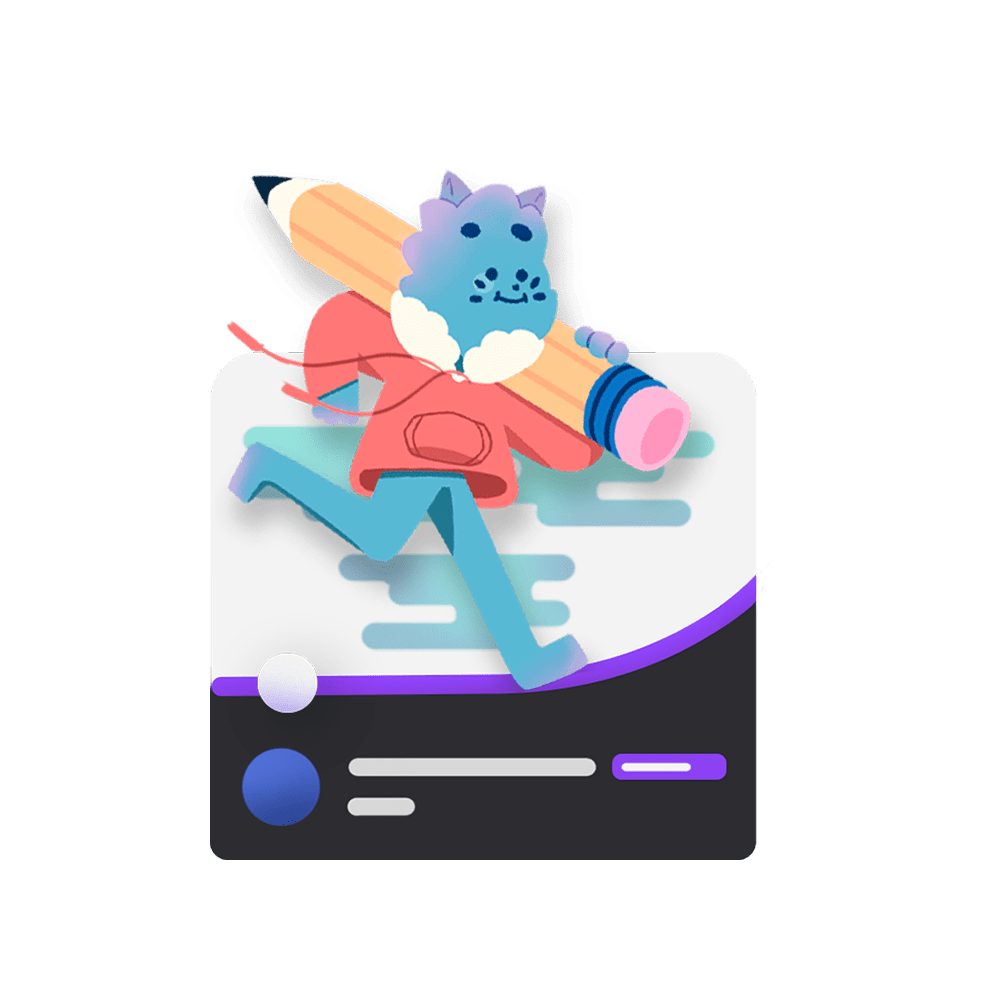
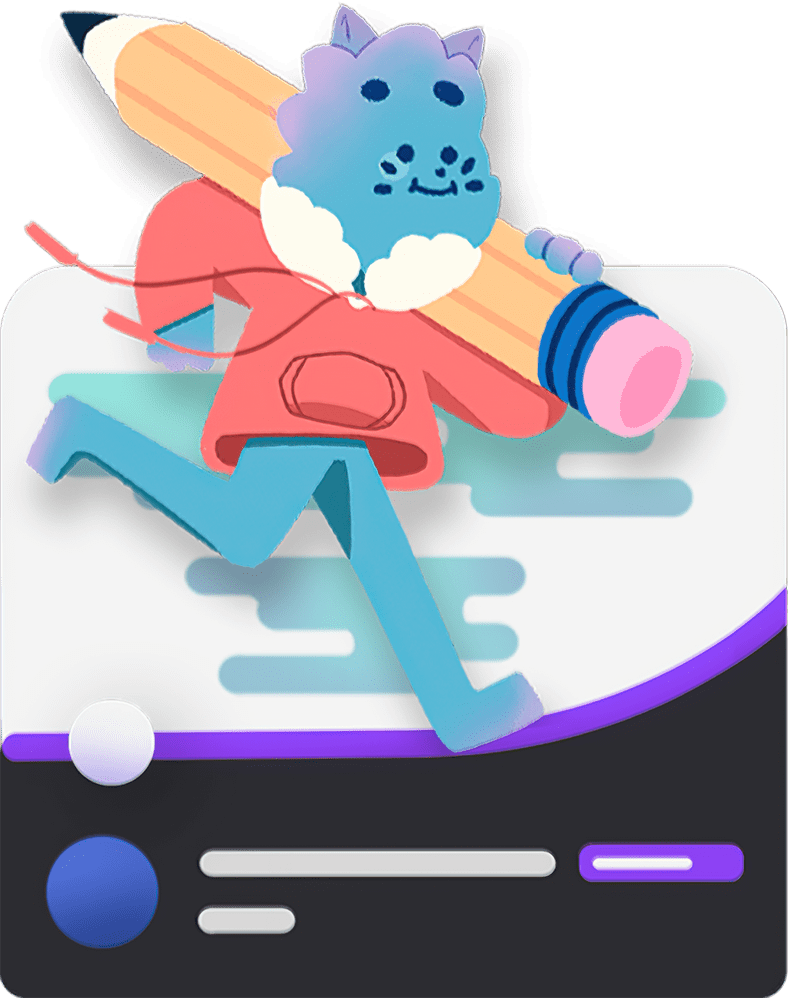
Pequeños cambios index version movil

diff --git a/assets/cssbk/app.css b/assets/cssbk/app.css
@@ -476,18 +476,18 @@ section {
 	position: absolute;
 }
 .animation-videoM {
-  max-width: 90%;
-  left: -10%;
-  bottom: 165px;
-  list-style-type: none;
-  position: relative;
-  z-index: 3;
+	max-width: 50%;
+    left: 11%;
+    bottom: 55px;
+    list-style-type: none;
+    position: relative;
+    z-index: 3;
 }
 @media (max-width: 767px) {
   .animation-videoM {
-    max-width: 100%;
-    left: 0%;
-    bottom: 125px;
+    max-width: 58%;
+    left: 23%;
+    bottom: 60px;
     list-style-type: none;
     position: relative;
     z-index: 3;
@@ -500,15 +500,15 @@ section {
 @media (max-width: 400px) {
   .animation-videoM {
     max-width: 100%;
-    left: -7%;
-    bottom: 135px;
+    left: 19%;
+    bottom: 60px;
     list-style-type: none;
     position: relative;
     z-index: 3;
   }
   .img-videoM {
     height: auto;
-    max-width: 155%;
+    max-width: 95%;
     position: absolute;
   }
 }
